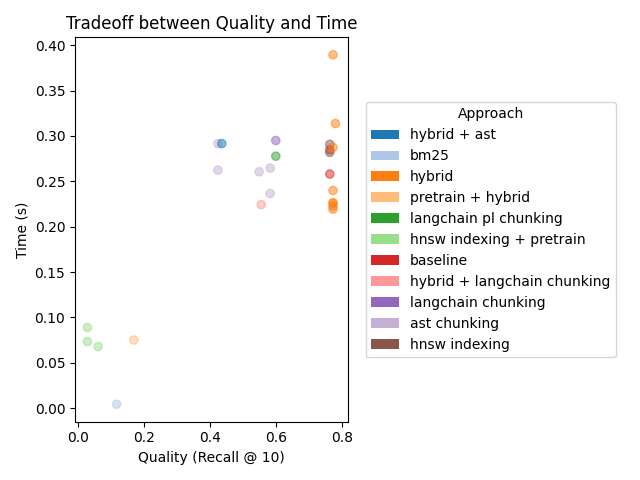
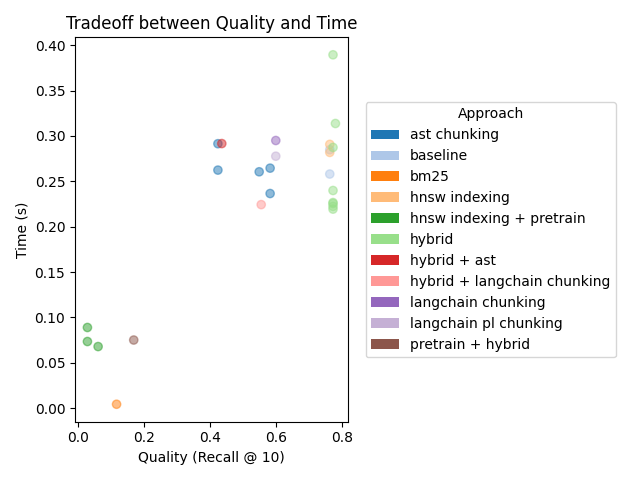
documentation update & minor fixes

diff --git a/src/rag/_rag.py b/src/rag/_rag.py
@@ -41,7 +41,7 @@ class RAGExtractor:
         self._task_config = task_config
 
         embeddings = GoogleGenerativeAIEmbeddings(model="models/text-embedding-004")
-        # NOTE: Use alternative pretrained embeddings
+        # NOTE: uncomment lines below for alternative pretrained embeddings
         # embeddings = PretrainedEmbeddings(config.encoder)
 
         bm25_retriever = BM25Retriever.from_texts(
@@ -51,6 +51,10 @@ class RAGExtractor:
         bm25_retriever.k = 10
 
         if not self._task_config.build_index:
+            assert \
+                (path_config.cache_root / "index.faiss").exists(),\
+                "Dense vectorS store cache does not exist. Build the index first."
+
             dense_store = FAISS.load_local(
                 path_config.cache_root.as_posix(),
                 embeddings,
@@ -59,13 +63,15 @@ class RAGExtractor:
         else:
             dense_store = self._build_dense_store(docs_pool, embeddings)
 
+        # NOTE: uncomment lines below for hybrid retrieval
         self._retriever = EnsembleRetriever(
             retrievers=[
                 dense_store.as_retriever(search_kwargs={"k": 10}),
-                bm25_retriever,
+                # bm25_retriever,
             ],
-            weights=[0.5, 0.5],
+            # weights=[0.5, 0.5],
         )
+
         self._graph = build_graph(self._retriever)
 
     def _build_dense_store(self, docs_pool: list[Document], embeddings: Embeddings):
@@ -80,7 +86,7 @@ class RAGExtractor:
             FAISS: A dense vector store for document retrieval.
         """
 
-        index = faiss.IndexHNSWFlat(len(embeddings.embed_query("hello world")), 16)
+        index = faiss.IndexHNSWFlat(len(embeddings.embed_query("hello world")), 32)
         vector_store = FAISS(
             embedding_function=embeddings,
             index=index,

diff --git a/src/evaluation.py b/src/evaluation.py
@@ -31,8 +31,7 @@ class Evaluator:
                 for test_pair in json.load(f)
             ]
 
-
-    # NOTE: Recall @ 10
+    # Recall quality metric
     def _quality_metric(self, relevant: list[str], retrieved: list[str]) -> float:
         """
         Calculates the quality metric.
@@ -56,7 +55,7 @@ class Evaluator:
             logs = [line.strip().split(", ") for line in f.readlines()]
             slugs, quality, time = zip(*logs)
 
-        labels = set(slugs)
+        labels = sorted(set(slugs))
         colors = plt.cm.tab20.colors
         label_to_color = {label: colors[i] for i, label in enumerate(labels)}
 
@@ -106,10 +105,10 @@ class Evaluator:
             _, retrieved = await ranker.ainvoke(query)
 
             time_sum += time.perf_counter() - start_time
-            quality_sum += self._quality_metric(relevant, retrieved)
+            quality_sum += self._quality_metric(relevant, retrieved[:10])
 
             if verbose:
-                print(f"Recall: {self._quality_metric(relevant, retrieved)}")
+                print(f"Recall: {self._quality_metric(relevant, retrieved[:10])}")
 
         quality_avg = quality_sum / len(self._test_data)
         time_avg = time_sum / len(self._test_data)

diff --git a/src/rag/graph_builder.py b/src/rag/graph_builder.py
@@ -23,7 +23,7 @@ llm = ChatOpenAI(
 )
 
 
-# NOTE: Chain preparation for different LLM use-cases
+# Chain preparation for different LLM use-cases
 chains: dict[str, Runnable] = {}
 
 # Define a chat prompt template with placeholders for system, context, and user messages
@@ -43,7 +43,7 @@ for f_name in path_config.prompts_root.glob("*.txt"):
         )
 
 
-# NOTE: Graph nodes
+# Graph nodes
 async def _expander(state: RAGState) -> RAGState:
     query = state["question"]
     extended = await chains["expand"].ainvoke({
@@ -81,7 +81,7 @@ async def _summary(state: RAGState) -> RAGState:
     }
 
 
-# NOTE: Conditional edges
+# Conditional edges
 def _reponse_routing(state: RAGState) -> Literal["summary", "end"]:
     """
     Determines the last step based on whether summarization is enabled.
@@ -108,7 +108,7 @@ def _query_init(state: RAGState) -> Literal["expand", "retrieve"]:
     return "expand" if state["task_config"].expand_query else "retrieve"
 
 
-# NOTE: Graph compilation
+# Graph compilation
 def build_graph(rag_retriever: BaseRetriever) -> CompiledStateGraph:
     builder = StateGraph(RAGState)
 

diff --git a/src/scheme/config.py b/src/scheme/config.py
@@ -5,9 +5,9 @@ from pydantic_settings import BaseSettings
 
 
 class RAGConfig(BaseSettings):
-    api_key: str        = Field("", alias="API_KEY")
+    api_key: str        = Field("", alias="OPENROUTER_API_KEY")
     target_repo: str    = Field("", alias="GIT_REPO")
-    encoder: str        = Field("microsoft/codebert-base", alias="ENCODER_MODEL")
+    encoder: str        = Field("", alias="ENCODER_MODEL")
     llm_slug: str       = Field("", alias="LLM")
 
 

diff --git a/src/main.py b/src/main.py
@@ -25,6 +25,7 @@ args = parser.parse_args()
 
 async def main(args: Namespace):
     if not path_config.code_repo_root.exists():
+        print(f"Cloning the codebase for the RAG system...")
         Repo.clone_from(rag_config.target_repo, path_config.code_repo_root)
 
     mode = args.__dict__.pop("mode")

diff --git a/summary.md b/summary.md
@@ -1,0 +1,70 @@
+# Summary of Approaches
+
+This document provides an overview of the approaches tried for solving the problem of efficient code search and question answering within a codebase using the Retrieval-Augmented Generation (RAG) system. Below, we summarize the key methods, their tradeoffs, and the results.
+
+## Considered Approaches
+### 1. Basic Retrieval-Augmented Generation (RAG) Approach
+The initial RAG setup utilized a simple retrieval mechanism where relevant content from a code repository was retrieved and used to generate responses to user queries. The retrieval process was based on vector embeddings using Google's `text-embedding-004` embedding model to index the codebase and retrieve relevant portions based on the user’s query.
+  
+- **Advantages:**
+  - **Simple to implement**: The baseline system was relatively straightforward, using embeddings and a basic retriever.
+  - **Decent accuracy**: Worked well for many queries with obvious code matches.
+
+### 2. CodeBERT for Embeddings
+CodeBERT was used to generate embbeddings for both the code in the repository and the user’s query. The goal was to retrieve and rank the most relevant code snippets for a given query.
+  
+- **Advantages:**
+  - **Pretrained for code**: CodeBERT is specifically designed for source code, which should theoretically give more precise results for code-related queries.
+  - **Semantic Understanding**: Captured more semantic meaning from the code than previous models.
+  
+- **Disadvantages:**
+  - **Performance drop when used with queries**: When integrating CodeBERT for query encoding, retrieval accuracy decreased, likely because the query embeddings weren't perfectly aligned with how the code was indexed.
+  - **Embeddings mismatch**: A mismatch between how the embeddings for the code and query were generated seemed to affect retrieval quality.
+
+### 3. AST Chunking Strategy
+The **AST chunking** process, implemented in `ast_chunker.py`, involves breaking down code files into smaller, meaningful chunks using Tree-Sitter. This ensures that the retrieval system can focus on semantically relevant portions of the code.
+
+- **Advantages:**
+  **Semantic Preservation**: By chunking based on AST nodes, the system ensures that each chunk represents a meaningful unit of code, such as a function or class.
+  **Language-Specific Parsing**: Tree-Sitter supports language-specific parsing, enabling precise chunking for different programming languages.
+
+- **Disadvantages:**
+  - **No Significant Accuracy Improvement**: The approach did not consistently improve retrieval accuracy, as the chunking process alone was insufficient for complex queries requiring deeper semantic understanding.
+  - **Overhead in Parsing**: Parsing the codebase into ASTs and extracting terminal nodes added computational overhead without yielding significant benefits.
+
+### 4. Query Expansion Using LLMs
+Query expansion was implemented to refine user queries by leveraging a Language Model (LLM) to generate additional context-aware search terms.
+
+- **Advantages:**
+  - **Handles Ambiguity**: Query expansion helped in cases where user queries were vague or incomplete by generating more detailed and contextually relevant terms.
+  - **Improved Recall for Specific Cases**: For certain queries, the expanded terms led to better matches in the retrieval process.
+
+- **Disadvantages:**
+  - **No Significant Accuracy Improvement**: Despite generating expanded queries, the overall retrieval accuracy did not improve consistently. The expanded terms often failed to align with the indexed code structure.
+  - **Increased Latency**: The additional step of querying the LLM introduced significant latency, making the system slower and less eficient.
+  - **Hard to Test**: It was challenging to evaluate this feature thoroughly due to the difficulty of finding an LLM API that allows a sufficient number of free calls for testing and evaluation purposes.
+
+### 5. Hybrid Search with BM25 Retriever
+The hybrid search approach combined BM25, a keyword-based retrieval method, with dense vector search to improve retrieval accuracy.
+
+- **Advantages:**
+  - **Simple to Implement**: The hybrid approach was straightforward to set up by combining the outputs of both retrievers.
+
+- **Disadvantages:**
+  - **No Significant Accuracy Improvement**: Despite combining two retrieval methods, the overall accuracy did not improve consistently. The results often favored one method over the other, leading to redundancy.
+
+## Tradeoff plot
+Based on the exploration of different approaches, we can visualize the performance tradeoffs between the various methods.
+
+![Tradeoff Plot](data/eval/tradeoff.png)
+
+
+## Conclusion
+
+Despite exploring several advanced methods, including AST-based chunking, query expansion with LLMs, and hybrid search, none of these approaches consistently improved retrieval quality. While each method showed potential in specific scenarios, the overall results did not meet expectations. It is not yet clear why these advanced techniques failed to enhance retrieval accuracy, but I suspect it could be due to misalignment between the methods and the underlying codebase structure or query requirements.
+All of the approaches described above have been implemented in the codebase and can be easily activated by uncommenting respective lines of code (denoted with `NOTE` comments).
+
+Possible future enhancements:
+- Experiment more with custom BERT-based embedding models.
+- Expanding support for additional indexing and retrieval algorithms.
+- Enhancing graph-based retrieval in AST with GNN model.

diff --git a/README.md b/README.md
@@ -1,35 +1,57 @@
 # CodeRAG
-
 CodeRAG is a Retrieval-Augmented Generation (RAG) system designed for efficient code search and question answering within a codebase. It combines semantic and keyword-based search techniques, leveraging advanced embeddings and indexing algorithms to enhance retrieval accuracy.
 
 ## Features
 - **Hybrid Search**: Combines BM25 and dense vector search for improved retrieval.
 - **Query Expansion**: Uses LLMs to refine user queries for better search results.
 - **Advanced Embedding**: Supports BERT-based encoders for generating file embeddings.
-- **Indexing Algorithms**: Implements HNSW for scalable and efficient indexing.
-- **Graph-Based Retrieval**: Utilizes Graph Neural Networks (GNNs) for complex retrieval tasks.
+- **AST-based c hunking strategy**: Breaks down code files into meaningful chunks using Abstract Syntax Tree parsing, preserving semantic relationships and code structure for more accurate retrieval.
 
-## Code Overview
-- **`src/main.py`**: Entry point for running the RAG system in QA or evaluation mode.
-- **`src/rag/`**: Core RAG components, including retrievers, chunkers, and graph builders.
-- **`src/scheme/`**: Configuration and data structures for RAG tasks.
-- **`src/utils/`**: Utilities for data loading, chunking, and prompt generation.
-- **`data/`**: Contains evaluation datasets, prompts, and configuration files.
+## Project Structure Overview
+```
+.
+├── src/
+│   ├── main.py         # Entry point for RAG system (QA/evaluation)
+│   ├── rag/            # Core RAG components
+│   ├── scheme/         # Configuration and data structures
+│   └── utils/          # Helper utilities
+└── data/              # Evaluation dataset and logging
+```
 
-## Getting Started
-1. Clone the target repository using the `GIT_REPO` environment variable.
-2. Run the system in QA mode to interactively query the codebase:
-   ```bash
-   python src/main.py --mode qa
-3. Evaluate retrieval performance using the evaluation dataset:
-   ```bash
-   python src/main.py --mode evaluate
+## Project Configuration
+The following environment variables are used in the CodeRAG system. These variables are loaded into the configuration classes (`RAGConfig` and `PathConfig`) and are critical for the system's operation. The user shoud define them in `.env` file (in the repo's root) before using the system. Example contents can be seen in `.example.env`.
+
+#### 1. `GOOGLE_API_KEY`
+- **Description**: API key for accessing Google services, such as embeddings or other AI-related APIs.
+- During development, Google's `text-embedding-004` model proved to be the best for this task, so I decided to stick to it.
+
+#### 2. `API_KEY`
+- **Description**: API key for accessing OpenRouter, a platform that provides access to various LLMs.
+- Used to authenticate requests to OpenRouter for tasks such as query expansion and summarization. Ensure that this key is valid and corresponds to your OpenRouter account.
+
+#### 3. `GIT_REPO`
+- **Description**: URL of the target Git repository to be cloned and analyzed.
+- Used in the `PathConfig` class to specify the repository that will be fetched and processed.
+- The repository is cloned into the `code_repo_root` directory (`data/fetched`) for indexing and retrieval.
+
+#### 4. `LLM`
+- **Description**: Identifier for the language model to be used via OpenRouter.
+  - Specifies the model used for query expansion and summarization.
+
+#### 5. `ENCODER_MODEL`
+- **Description**: Identifier for the HuggingFace embedding model to be used for generating dense vector representations of text.
+- This variable is required **only for** `PretrainedEmbeddings` usage.
+
+## Command-Line Interface
+To start using the system it is sufficien to run `src/main.py` script in the root of the project. The script provides several command-line flags to control its operation:
+
+| Flag | Description |
+|------|-------------|
+| `--mode` | Sets operation mode (`qa` for question answering, `evaluate` for testing) |
+| `--verbose` | Enables detailed debug logging |
+| `--expand_query` | Activates LLM query expansion |
+| `--build_index` | Forces new index creation instead of using cache |
 
 ## Requirements
 - Python 3.8+
 - Dependencies listed in requirements.txt
-
-## Future Enhancements
-- Fine-tuning embeddings for domain-specific tasks.
-- Expanding support for additional indexing and retrieval algorithms.
-- Enhancing graph-based retrieval with advanced GNN models.
